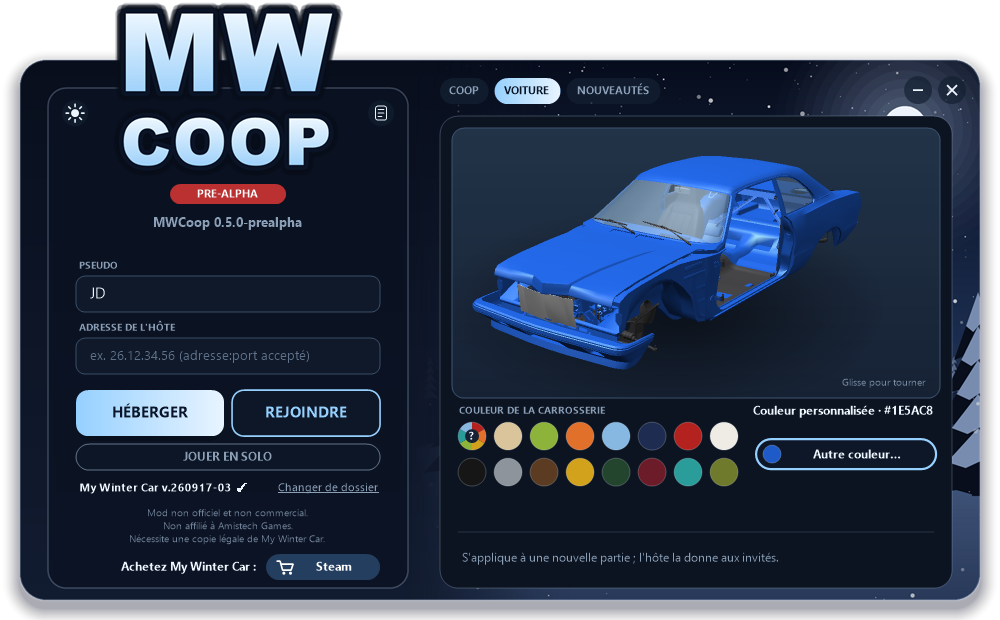
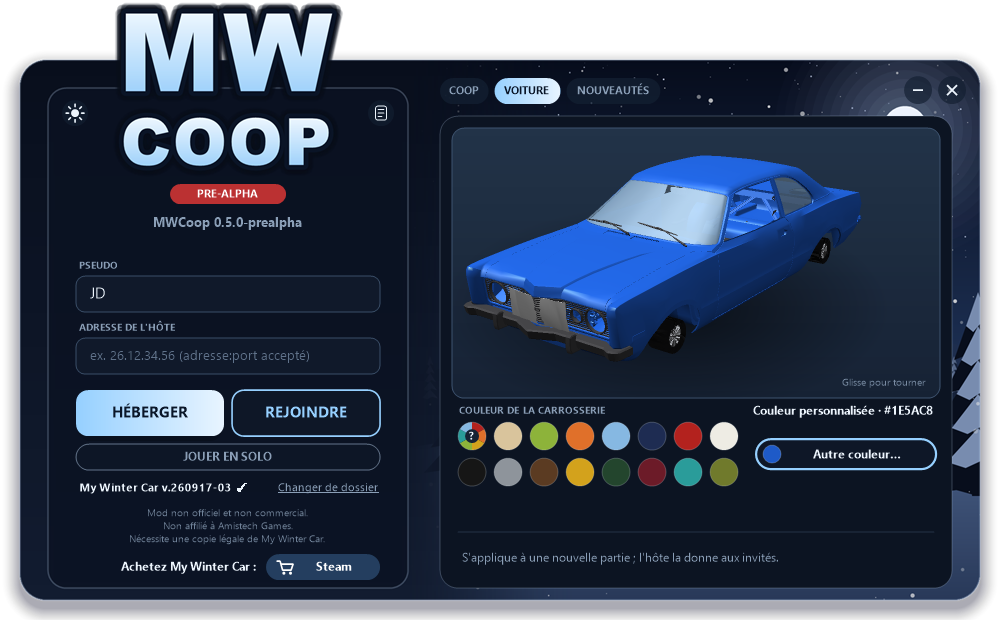
Apercu de la voiture complet : pieces absentes, roues et vitres
Remarque de JD : la CORRIS d'une partie neuve est incomplete (la voiture du menu
est la SORBET, pas la CORRIS). Chaque point de montage vide garde le maillage de
sa piece (Data, OriginalMesh) : il est pose a sa place ; roues fabriquees aux
roues physiques sans modele ; vitres en verre teinte au lieu de trous.

Changed region(s): [[0.465, 0.2758, 0.837, 0.6129]]

diff --git a/src/MWCoop/Sync/CarColor.cs b/src/MWCoop/Sync/CarColor.cs
@@ -85,7 +85,10 @@ namespace MWCoop
             foreach (SkinnedMeshRenderer s in car.GetComponentsInChildren<SkinnedMeshRenderer>())
                 if (s.enabled && s.sharedMesh != null)
                     parts.Add(new Piece { R = s, M = s.sharedMesh, ToCar = root.worldToLocalMatrix * s.transform.localToWorldMatrix, Paint = IsPaintable(s.transform, root) });
-            AddLooseParts(root, parts);
+            var points = AddLooseParts(root, parts);
+            var extra = new List<Piece>();
+            AddPointMeshes(root, points, extra);
+            AddWheels(car, root, extra);
 
             Directory.CreateDirectory(Path.GetDirectoryName(MeshPath));
             int written = 0, tris = 0;
@@ -95,24 +98,40 @@ namespace MWCoop
                 w.Write(1);
                 long countPos = w.BaseStream.Position;
                 w.Write(0);
+                parts.AddRange(extra);
                 foreach (Piece pc in parts)
                 {
                     Renderer r = pc.R;
-                    Mesh m = pc.M;
-                    Material mat = r.sharedMaterial;
-                    string mn = mat != null ? mat.name.ToLowerInvariant() : "";
-                    if (mn.Contains("glass") || mn.Contains("window") || mn.Contains("shadow") || mn.Contains("alpha")) continue;
-                    if (!m.isReadable) continue;
-                    Vector3[] v = m.vertices;
-                    int[] idx = m.triangles;
+                    Vector3[] v;
+                    int[] idx;
+                    Color c;
+                    string pieceName;
+                    if (r == null)
+                    {
+                        // Piece fabriquee (roue) : sommets deja dans le repere de la voiture.
+                        v = pc.V; idx = pc.T; c = pc.C; pieceName = pc.Name;
+                    }
+                    else
+                    {
+                        Mesh m = pc.M;
+                        Material mat = r.sharedMaterial;
+                        string mn = mat != null ? mat.name.ToLowerInvariant() : "";
+                        if (mn.Contains("shadow") || mn.Contains("alpha")) continue;
+                        bool glass = mn.Contains("glass") || mn.Contains("window");
+                        if (!m.isReadable) continue;
+                        v = m.vertices;
+                        idx = m.triangles;
+                        c = glass ? new Color(0.13f, 0.17f, 0.21f) : mat != null && mat.HasProperty("_Color") ? mat.color : Color.gray;
+                        pieceName = r.name;
+                        if (glass) pc.Paint = false;
+                    }
                     if (v.Length == 0 || idx.Length == 0 || v.Length > 60000) continue;
-                    byte[] name = System.Text.Encoding.UTF8.GetBytes(r.name);
+                    byte[] name = System.Text.Encoding.UTF8.GetBytes(pieceName);
                     w.Write((ushort)name.Length); w.Write(name);
                     w.Write((byte)(pc.Paint ? 1 : 0));
-                    Color c = mat != null && mat.HasProperty("_Color") ? mat.color : Color.gray;
                     w.Write(c.r); w.Write(c.g); w.Write(c.b);
                     w.Write(v.Length);
-                    Matrix4x4 toCar = pc.ToCar;
+                    Matrix4x4 toCar = r == null ? Matrix4x4.identity : pc.ToCar;
                     foreach (Vector3 p in v)
                     {
                         Vector3 q = toCar.MultiplyPoint3x4(p);
@@ -129,20 +148,84 @@ namespace MWCoop
             return written + " morceaux, " + tris + " triangles, " + MeshPath;
         }
 
-        class Piece { public Renderer R; public Mesh M; public Matrix4x4 ToCar; public bool Paint; }
+        class Piece
+        {
+            public Renderer R; public Mesh M; public Matrix4x4 ToCar; public bool Paint;
+            public string Name; public Vector3[] V; public int[] T; public Color C;   // piece fabriquee
+        }
+
+        // Roues : une partie neuve n'en a pas encore de montees. A chaque roue physique (Wheel) sans
+        // modele visible, un pneu et une jante simples a sa place, de son rayon et de sa largeur.
+        static void AddWheels(GameObject car, Transform root, List<Piece> parts)
+        {
+            foreach (Wheel wh in car.GetComponentsInChildren<Wheel>(true))
+            {
+                bool shown = false;
+                if (wh.model != null)
+                    foreach (Renderer r in wh.model.GetComponentsInChildren<Renderer>())
+                        if (r.enabled) { shown = true; break; }
+                if (shown) continue;
+                Transform t = wh.transform;
+                Vector3 c = root.InverseTransformPoint(t.position);
+                Vector3 axis = root.InverseTransformDirection(t.right).normalized;
+                float rad = wh.radius > 0.1f ? wh.radius : 0.3f, width = wh.width > 0.05f ? wh.width : 0.18f;
+                parts.Add(Ring(wh.name + " pneu", c, axis, rad, rad * 0.64f, width, new Color(0.07f, 0.07f, 0.075f)));
+                parts.Add(Ring(wh.name + " jante", c, axis, rad * 0.64f, 0.02f, width * 0.8f, new Color(0.62f, 0.63f, 0.65f)));
+            }
+        }
+
+        // Anneau epais (cylindre creux ferme) : 'outer' / 'inner' rayons, 'width' le long de 'axis'.
+        static Piece Ring(string name, Vector3 c, Vector3 axis, float outer, float inner, float width, Color col)
+        {
+            const int N = 28;
+            Vector3 u = Vector3.Cross(axis, Vector3.up);
+            if (u.sqrMagnitude < 1e-4f) u = Vector3.Cross(axis, Vector3.forward);
+            u.Normalize();
+            Vector3 vv = Vector3.Cross(axis, u).normalized;
+            Vector3 h = axis * (width * 0.5f);
+            var verts = new List<Vector3>();
+            for (int i = 0; i < N; i++)
+            {
+                float a = i * Mathf.PI * 2f / N;
+                Vector3 d = u * Mathf.Cos(a) + vv * Mathf.Sin(a);
+                verts.Add(c + d * outer + h); verts.Add(c + d * outer - h);
+                verts.Add(c + d * inner + h); verts.Add(c + d * inner - h);
+            }
+            var tris = new List<int>();
+            for (int i = 0; i < N; i++)
+            {
+                int a = i * 4, b = ((i + 1) % N) * 4;
+                // exterieur, interieur, flanc +, flanc - (les deux faces : le rendu ne trie pas l'orientation)
+                Quad(tris, a, b, b + 1, a + 1);
+                Quad(tris, a + 2, a + 3, b + 3, b + 2);
+                Quad(tris, a, a + 2, b + 2, b);
+                Quad(tris, a + 1, b + 1, b + 3, a + 3);
+            }
+            return new Piece { Name = name, V = verts.ToArray(), T = tris.ToArray(), C = col };
+        }
+
+        static void Quad(List<int> t, int a, int b, int c, int d)
+        {
+            t.Add(a); t.Add(b); t.Add(c); t.Add(a); t.Add(c); t.Add(d);
+            t.Add(a); t.Add(c); t.Add(b); t.Add(a); t.Add(d); t.Add(c);
+        }
 
         // Pieces pas encore montees dont le point de montage est sur la CORRIS (portes, capot, ailes,
         // pare-chocs, roues...) : posees la ou le jeu les fixerait (SetParent sur le point, position
         // locale nulle). Une seule par point de montage.
-        static void AddLooseParts(Transform root, List<Piece> parts)
+        static HashSet<Transform> AddLooseParts(Transform root, List<Piece> parts)
         {
             var points = new HashSet<Transform>();
+            var diag = new System.Text.StringBuilder();
             foreach (Object o in Resources.FindObjectsOfTypeAll(typeof(PlayMakerFSM)))
             {
                 var f = (PlayMakerFSM)o;
                 if (f.hideFlags != HideFlags.None || f.FsmName != "Data") continue;
                 FsmGameObject ip = f.FsmVariables.FindFsmGameObject("InstallPoint");
                 FsmString id = f.FsmVariables.FindFsmString("ID");
+                if (Config.GetInt("Test", "JournalApercu", 0) != 0 && f.name.Contains("(VIN"))
+                    diag.Append(f.name).Append(ip == null ? "[pas de var]" : ip.Value == null ? "[point nul]" : "[" + Recon.Path(ip.Value.transform) + "]")
+                        .Append(id == null ? "" : " id=" + id.Value).Append(f.transform.IsChildOf(root) ? " monte" : "").Append("; ");
                 if (ip == null || ip.Value == null || id == null || id.Value.Length == 0) continue;
                 Transform point = ip.Value.transform, part = f.transform;
                 if (!point.IsChildOf(root) || part.IsChildOf(root) || points.Contains(point)) continue;
@@ -156,6 +239,45 @@ namespace MWCoop
                     parts.Add(new Piece { R = r, M = mf.sharedMesh, ToCar = place * r.transform.localToWorldMatrix, Paint = IsPaintable(r.transform, part) });
                 }
             }
+            if (diag.Length > 0) Log.Info("voiture : pieces " + diag);
+            return points;
+        }
+
+        // Pieces qui n'existent pas encore dans une partie neuve (capot, pare-chocs, phares...) : chaque
+        // point de montage VINP_* vide de la CORRIS garde le maillage de sa piece (Data, OriginalMesh),
+        // pose a la place du point. Les variantes de tuning (AssembliesTuning) sont laissees de cote.
+        static void AddPointMeshes(Transform root, HashSet<Transform> taken, List<Piece> parts)
+        {
+            int n = 0;
+            foreach (PlayMakerFSM f in root.GetComponentsInChildren<PlayMakerFSM>(true))
+            {
+                if (f.FsmName != "Data" || !f.name.StartsWith("VINP_") || taken.Contains(f.transform)) continue;
+                if (Recon.Path(f.transform).Contains("/AssembliesTuning/")) continue;
+                FsmBool inst = f.FsmVariables.FindFsmBool("Installed");
+                FsmGameObject active = f.FsmVariables.FindFsmGameObject("ActivePart");
+                if (inst != null && inst.Value || active != null && active.Value != null) continue;
+                FsmObject om = f.FsmVariables.FindFsmObject("OriginalMesh");
+                var mesh = om != null ? om.Value as Mesh : null;
+                if (mesh == null || !mesh.isReadable) continue;
+                string mn = mesh.name.ToLowerInvariant();
+                bool paint = mn.StartsWith("body_") || mn.Contains("hood") || mn.Contains("fender") || mn.Contains("door") || mn.Contains("bootlid");
+                bool glass = mn.Contains("glass") || mn.Contains("window");
+                parts.Add(new Piece
+                {
+                    Name = f.name + " " + mesh.name, Paint = paint && !glass,
+                    V = Transformed(mesh.vertices, root.worldToLocalMatrix * f.transform.localToWorldMatrix), T = mesh.triangles,
+                    C = glass ? new Color(0.13f, 0.17f, 0.21f) : new Color(0.32f, 0.32f, 0.34f)
+                });
+                n++;
+            }
+            Log.Info("voiture : " + n + " pieces absentes posees sur leur point de montage");
+        }
+
+        static Vector3[] Transformed(Vector3[] v, Matrix4x4 m)
+        {
+            var r = new Vector3[v.Length];
+            for (int i = 0; i < v.Length; i++) r[i] = m.MultiplyPoint3x4(v[i]);
+            return r;
         }
 
         static void ApplyChosen()
